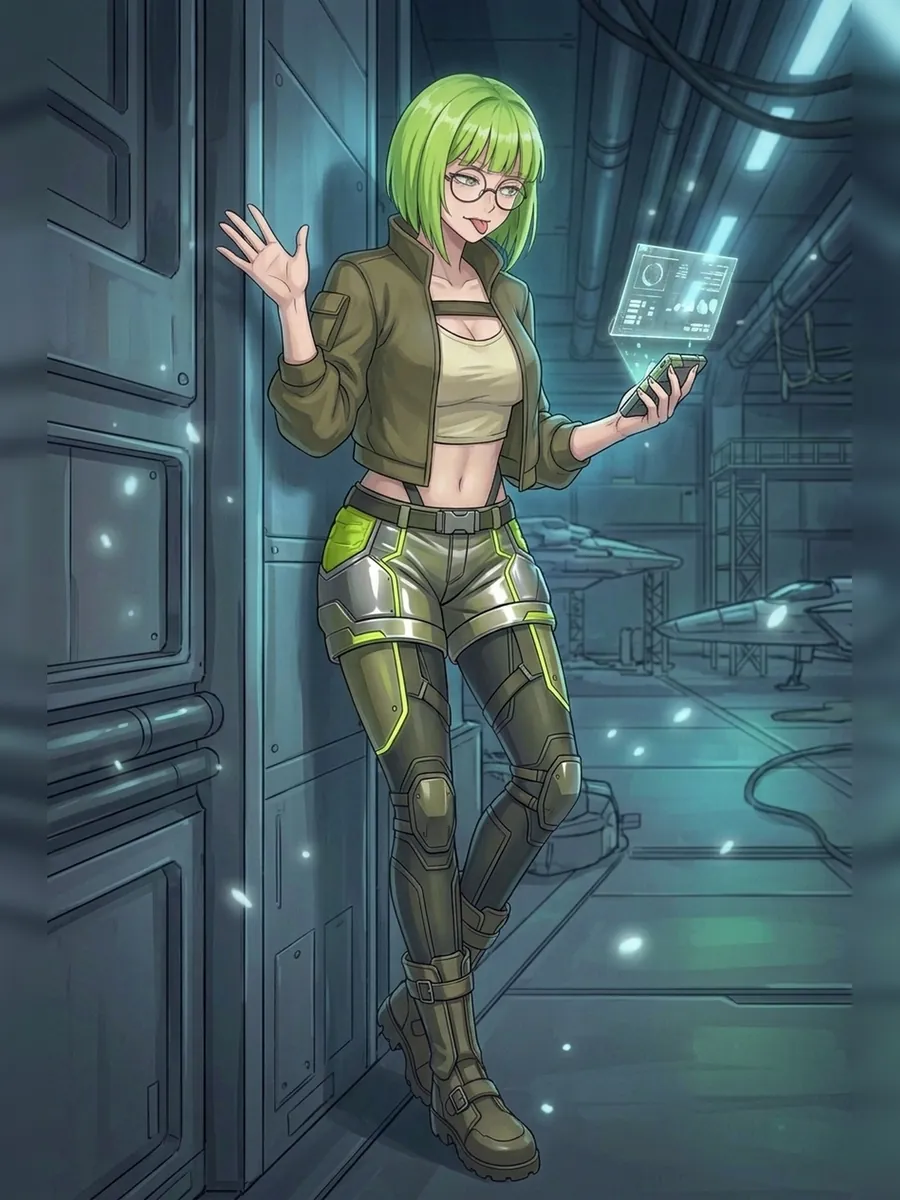
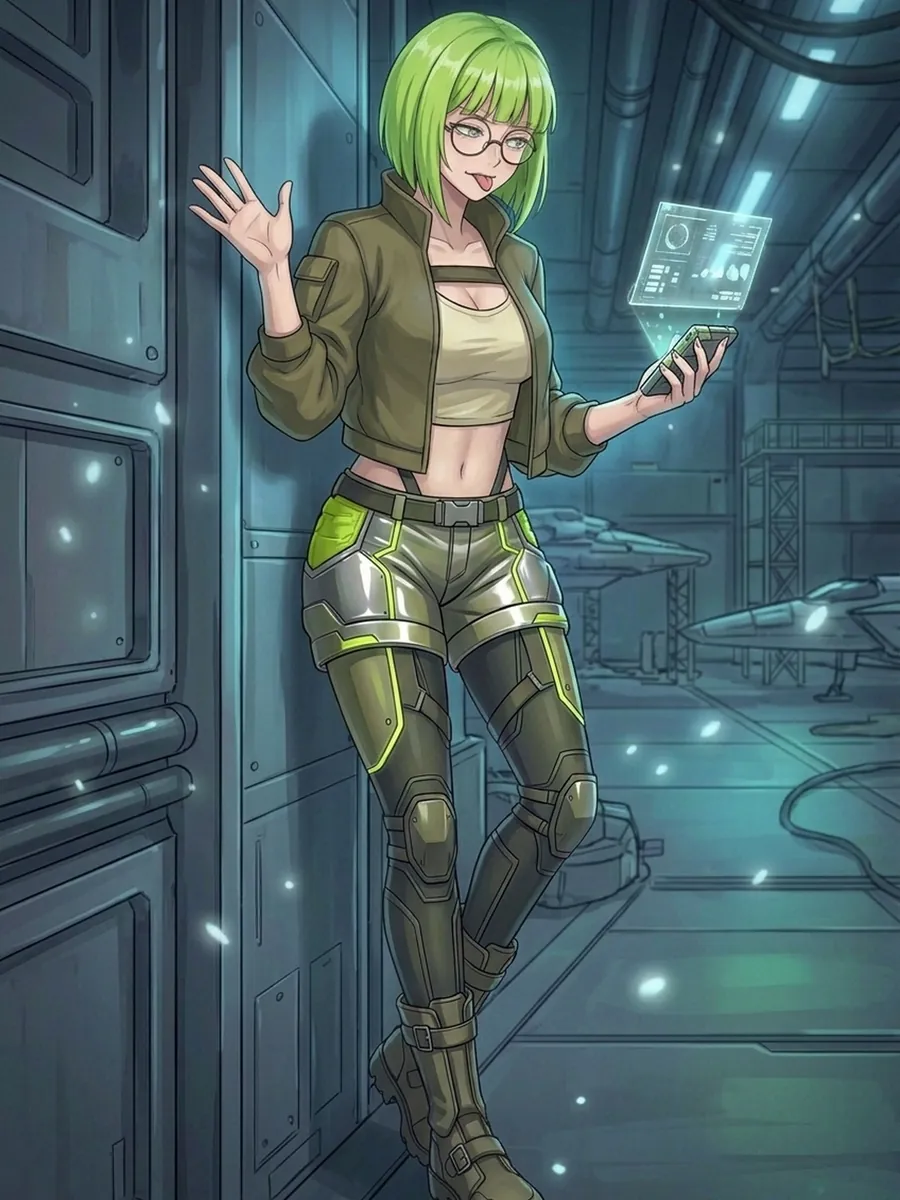
gundraw: 컨셉 12장·소미·보리 카드 이음새 없는 중앙 크롭본(gamehub 352b98bd, 다온 a 새 구도·보리 a fix2 포함)·다온 a·보리 a 설명 수정

diff --git a/games/gundraw/index.html b/games/gundraw/index.html
@@ -137,7 +137,7 @@
       <div class="concept__panel" role="tabpanel" id="concept-daon" aria-labelledby="concept-tab-daon">
         <h3 class="concept__name"><span lang="ko" data-l="ko">다온</span><span lang="en" data-l="en">Daon</span></h3>
         <div class="concept__row" tabindex="0" aria-label="다온 아트" data-en-label="Daon art">
-          <figure class="cast__art concept__cut" data-zoom="concept-daon" data-cap="작전실에서 몸을 비틀어 선 다온" data-cap-en="Daon standing with a twist in the ops room" tabindex="0" role="button" aria-label="작전실에서 몸을 비틀어 선 다온 크게 보기" data-en-label="View larger: Daon standing with a twist in the ops room"><img src="/assets/games/gundraw/art/concept-daon-1-900.webp" srcset="/assets/games/gundraw/art/concept-daon-1-900.webp 900w, /assets/games/gundraw/art/concept-daon-1-450.webp 450w" sizes="(max-width: 599px) 72vw, (max-width: 899px) 44vw, 340px" alt="작전실에서 몸을 비틀어 선 다온" data-en-alt="Daon standing with a twist in the ops room" width="900" height="1200" loading="lazy" decoding="async"></figure>
+          <figure class="cast__art concept__cut" data-zoom="concept-daon" data-cap="복도 벽에 기대 팔짱을 낀 다온" data-cap-en="Daon leaning on a corridor wall, arms crossed" tabindex="0" role="button" aria-label="복도 벽에 기대 팔짱을 낀 다온 크게 보기" data-en-label="View larger: Daon leaning on a corridor wall, arms crossed"><img src="/assets/games/gundraw/art/concept-daon-1-900.webp" srcset="/assets/games/gundraw/art/concept-daon-1-900.webp 900w, /assets/games/gundraw/art/concept-daon-1-450.webp 450w" sizes="(max-width: 599px) 72vw, (max-width: 899px) 44vw, 340px" alt="복도 벽에 기대 팔짱을 낀 다온" data-en-alt="Daon leaning on a corridor wall, arms crossed" width="900" height="1200" loading="lazy" decoding="async"></figure>
           <figure class="cast__art concept__cut" data-zoom="concept-daon" data-cap="휴게실 바 의자에 다리를 꼬고 앉은 원피스 차림의 다온" data-cap-en="Daon in a fitted dress, legs crossed on a lounge bar stool" tabindex="0" role="button" aria-label="휴게실 바 의자에 다리를 꼬고 앉은 원피스 차림의 다온 크게 보기" data-en-label="View larger: Daon in a fitted dress, legs crossed on a lounge bar stool"><img src="/assets/games/gundraw/art/concept-daon-2-900.webp" srcset="/assets/games/gundraw/art/concept-daon-2-900.webp 900w, /assets/games/gundraw/art/concept-daon-2-450.webp 450w" sizes="(max-width: 599px) 72vw, (max-width: 899px) 44vw, 340px" alt="휴게실 바 의자에 다리를 꼬고 앉은 원피스 차림의 다온" data-en-alt="Daon in a fitted dress, legs crossed on a lounge bar stool" width="900" height="1200" loading="lazy" decoding="async"></figure>
           <figure class="cast__art concept__cut" data-zoom="concept-daon" data-cap="실크 슬립 차림으로 침대에 팔꿈치를 괴고 누운 다온" data-cap-en="Daon in a silk slip, propped on one elbow on the bed" tabindex="0" role="button" aria-label="실크 슬립 차림으로 침대에 팔꿈치를 괴고 누운 다온 크게 보기" data-en-label="View larger: Daon in a silk slip, propped on one elbow on the bed"><img src="/assets/games/gundraw/art/concept-daon-3-900.webp" srcset="/assets/games/gundraw/art/concept-daon-3-900.webp 900w, /assets/games/gundraw/art/concept-daon-3-450.webp 450w" sizes="(max-width: 599px) 72vw, (max-width: 899px) 44vw, 340px" alt="실크 슬립 차림으로 침대에 팔꿈치를 괴고 누운 다온" data-en-alt="Daon in a silk slip, propped on one elbow on the bed" width="900" height="1200" loading="lazy" decoding="async"></figure>
         </div>
@@ -145,7 +145,7 @@
       <div class="concept__panel" role="tabpanel" id="concept-bori" aria-labelledby="concept-tab-bori">
         <h3 class="concept__name"><span lang="ko" data-l="ko">보리</span><span lang="en" data-l="en">Bori</span></h3>
         <div class="concept__row" tabindex="0" aria-label="보리 아트" data-en-label="Bori art">
-          <figure class="cast__art concept__cut" data-zoom="concept-bori" data-cap="뛰어오르며 총을 쏘는 보리" data-cap-en="Bori firing mid-jump" tabindex="0" role="button" aria-label="뛰어오르며 총을 쏘는 보리 크게 보기" data-en-label="View larger: Bori firing mid-jump"><img src="/assets/games/gundraw/art/concept-bori-1-900.webp" srcset="/assets/games/gundraw/art/concept-bori-1-900.webp 900w, /assets/games/gundraw/art/concept-bori-1-450.webp 450w" sizes="(max-width: 599px) 72vw, (max-width: 899px) 44vw, 340px" alt="뛰어오르며 총을 쏘는 보리" data-en-alt="Bori firing mid-jump" width="900" height="1200" loading="lazy" decoding="async"></figure>
+          <figure class="cast__art concept__cut" data-zoom="concept-bori" data-cap="총을 들고 복도를 뛰어오르는 보리" data-cap-en="Bori leaping down a corridor, rifle in hand" tabindex="0" role="button" aria-label="총을 들고 복도를 뛰어오르는 보리 크게 보기" data-en-label="View larger: Bori leaping down a corridor, rifle in hand"><img src="/assets/games/gundraw/art/concept-bori-1-900.webp" srcset="/assets/games/gundraw/art/concept-bori-1-900.webp 900w, /assets/games/gundraw/art/concept-bori-1-450.webp 450w" sizes="(max-width: 599px) 72vw, (max-width: 899px) 44vw, 340px" alt="총을 들고 복도를 뛰어오르는 보리" data-en-alt="Bori leaping down a corridor, rifle in hand" width="900" height="1200" loading="lazy" decoding="async"></figure>
           <figure class="cast__art concept__cut" data-zoom="concept-bori" data-cap="거리에서 풍선껌을 불며 브이를 하는 후드 차림의 보리" data-cap-en="Bori in a hoodie on the street, blowing a bubble and flashing a V" tabindex="0" role="button" aria-label="거리에서 풍선껌을 불며 브이를 하는 후드 차림의 보리 크게 보기" data-en-label="View larger: Bori in a hoodie on the street, blowing a bubble and flashing a V"><img src="/assets/games/gundraw/art/concept-bori-2-900.webp" srcset="/assets/games/gundraw/art/concept-bori-2-900.webp 900w, /assets/games/gundraw/art/concept-bori-2-450.webp 450w" sizes="(max-width: 599px) 72vw, (max-width: 899px) 44vw, 340px" alt="거리에서 풍선껌을 불며 브이를 하는 후드 차림의 보리" data-en-alt="Bori in a hoodie on the street, blowing a bubble and flashing a V" width="900" height="1200" loading="lazy" decoding="async"></figure>
           <figure class="cast__art concept__cut" data-zoom="concept-bori" data-cap="쪼그려 앉아 총을 끌어안은 보리" data-cap-en="Bori crouching with her rifle hugged close" tabindex="0" role="button" aria-label="쪼그려 앉아 총을 끌어안은 보리 크게 보기" data-en-label="View larger: Bori crouching with her rifle hugged close"><img src="/assets/games/gundraw/art/concept-bori-3-900.webp" srcset="/assets/games/gundraw/art/concept-bori-3-900.webp 900w, /assets/games/gundraw/art/concept-bori-3-450.webp 450w" sizes="(max-width: 599px) 72vw, (max-width: 899px) 44vw, 340px" alt="쪼그려 앉아 총을 끌어안은 보리" data-en-alt="Bori crouching with her rifle hugged close" width="900" height="1200" loading="lazy" decoding="async"></figure>
         </div>
